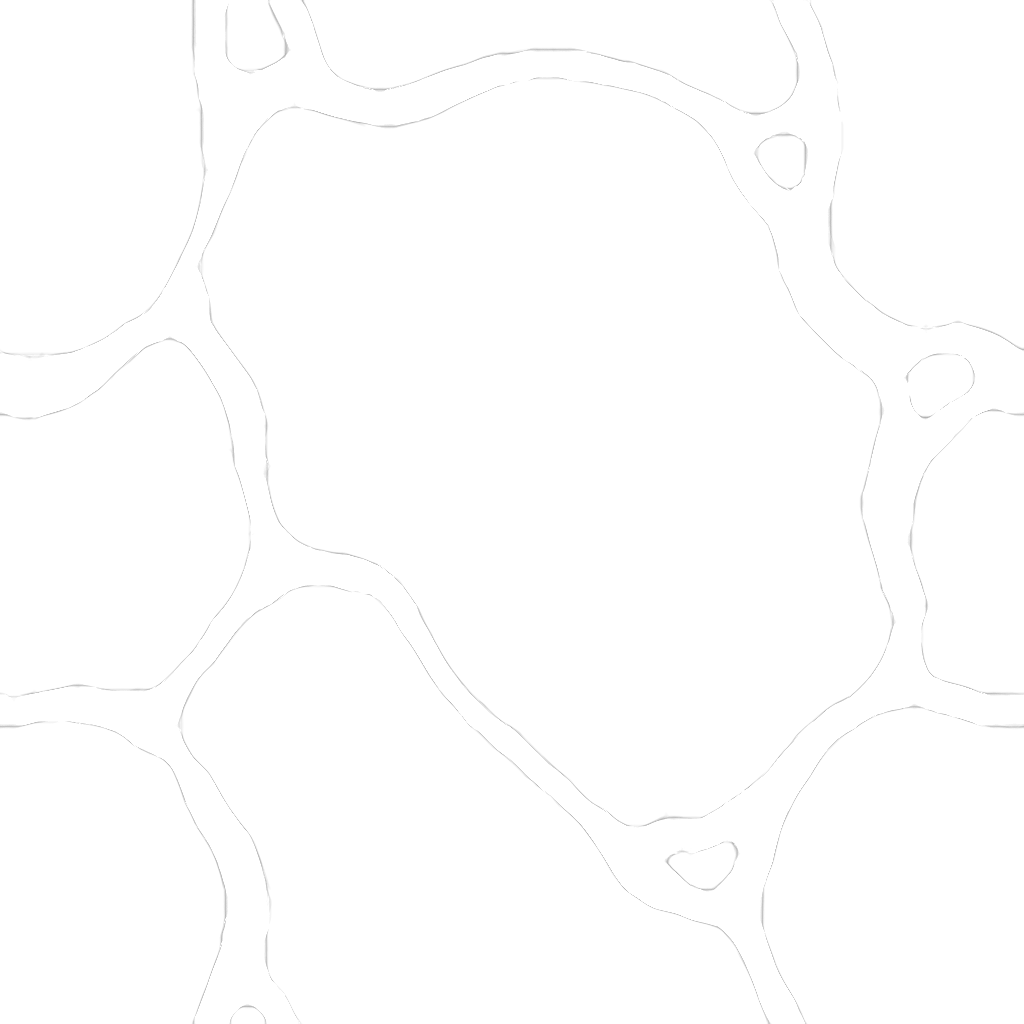
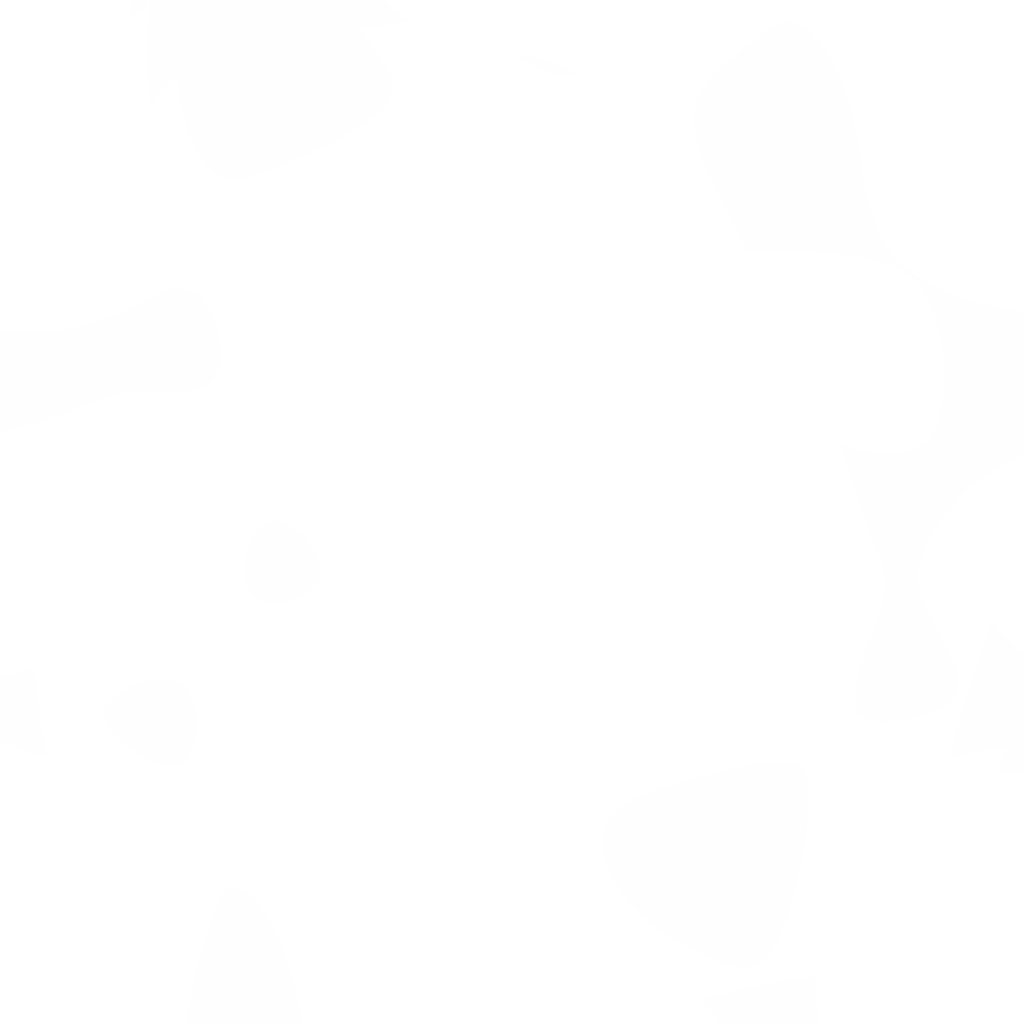
Reduce water contrast

diff --git a/src/jel/objects/water.js b/src/jel/objects/water.js
@@ -114,17 +114,17 @@ const WaterShader = {
     "}",
 
     "void main() {",
-    "     vec4 uv = vUv * 2.5 + vec4(sin(time) * -0.005);",
-    `     vec2 uv2 = vUv2 * ${(WORLD_SIZE * 2).toFixed(2)} + vec2(time * -0.05);`,
-    "     uv2.y += 0.01 * (sin(uv2.x * 3.5 + time * 0.35) + sin(uv2.x * 4.8 + time * 1.05) + sin(uv2.x * 7.3 + time * 0.45)) / 3.0;",
-    "     uv2.x += 0.12 * (sin(uv2.y * 4.0 + time * 0.5) + sin(uv2.y * 6.8 + time * 0.75) + sin(uv2.y * 11.3 + time * 0.2)) / 3.0;",
-    "     uv2.y += 0.12 * (sin(uv2.x * 4.2 + time * 0.64) + sin(uv2.x * 6.3 + time * 1.65) + sin(uv2.x * 8.2 + time * 0.45)) / 3.0;",
-    "     vec4 wave1 = texture2D(wave, uv2 * 1.0);",
-    "     vec4 wave2 = texture2D(wave, uv2 * 1.0 + vec2(0.2));",
+    "     vec4 uv = vUv * 2.5 + vec4(sin(time) * -0.01);",
+    `     vec2 uv2 = vUv2 * ${(WORLD_SIZE * 2).toFixed(2)} + vec2(time * -0.1);`,
+    "     uv2.y += 0.01 * (sin(uv2.x * 3.5 + time * 0.7) + sin(uv2.x * 4.8 + time * 1.05) + sin(uv2.x * 7.3 + time * 0.9)) / 3.0;",
+    "     uv2.x += 0.12 * (sin(uv2.y * 4.0 + time * 1.0) + sin(uv2.y * 6.8 + time * 0.75) + sin(uv2.y * 11.3 + time * 0.4)) / 3.0;",
+    "     uv2.y += 0.12 * (sin(uv2.x * 4.2 + time * 1.28) + sin(uv2.x * 6.3 + time * 1.65) + sin(uv2.x * 8.2 + time * 0.9)) / 3.0;",
+    "     vec4 wave1 = texture2D(wave, uv2 * 0.5);",
+    "     vec4 wave2 = texture2D(wave, uv2 * 0.5 + vec2(0.2));",
     "     vec3 waves = vec3(wave1.aaa * 0.9 - wave2.aaa * 0.02);",
     "     vec4 base = texture2DProj( map, uv );",
     "     vec3 surface = blendOverlay( color, base.rgb * step(1.0, reflections) + vec3(0.5, 0.5, 0.5) * step(1.0, 1.0 - reflections));",
-    "     gl_FragColor = vec4( 0.25 * waves + 0.75 * surface, 0.75 );",
+    "     gl_FragColor = vec4( 0.075 * waves + 0.925 * surface, 0.75 );",
     "}"
   ].join("\n")
 };
